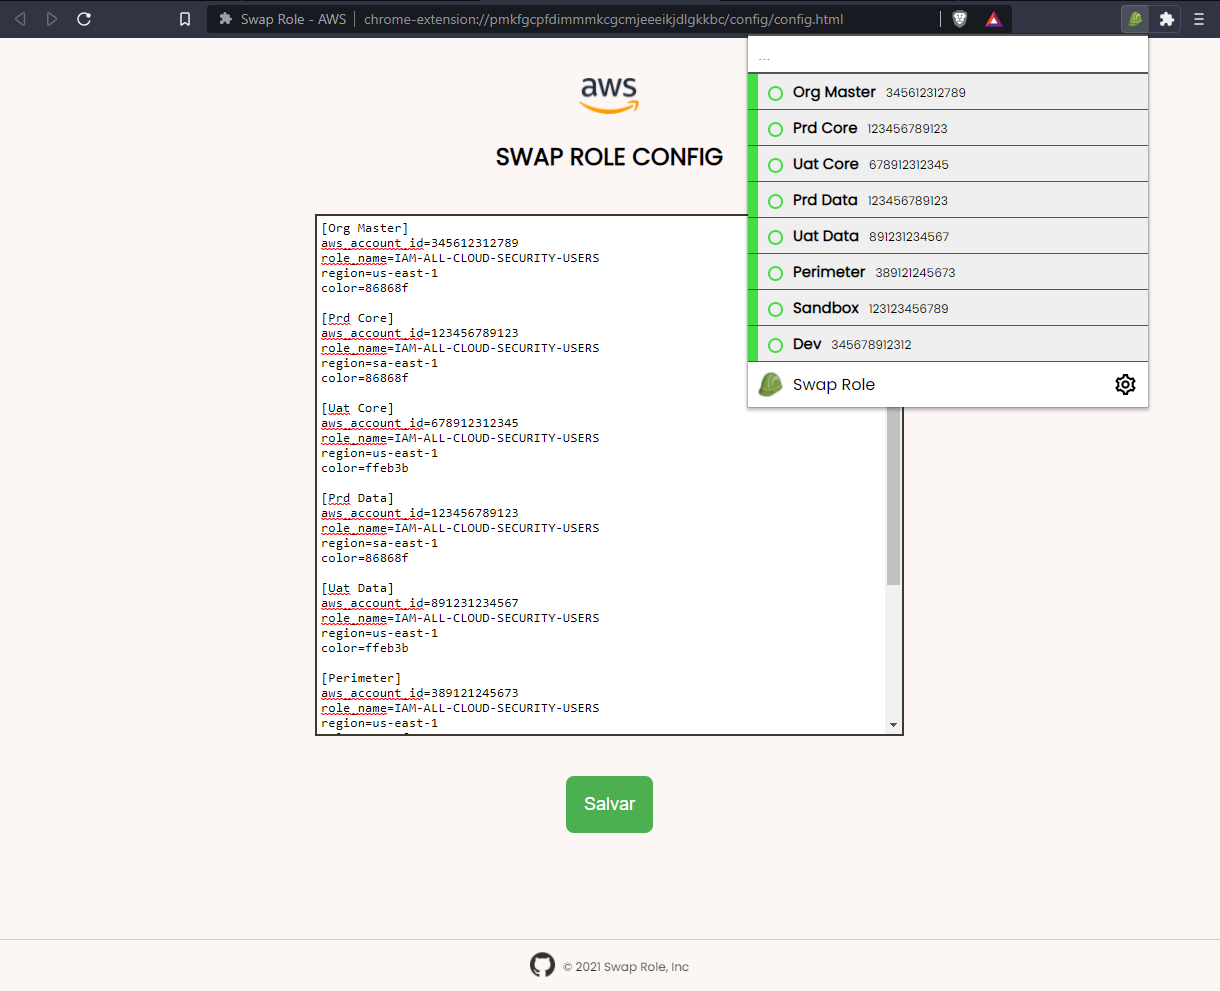
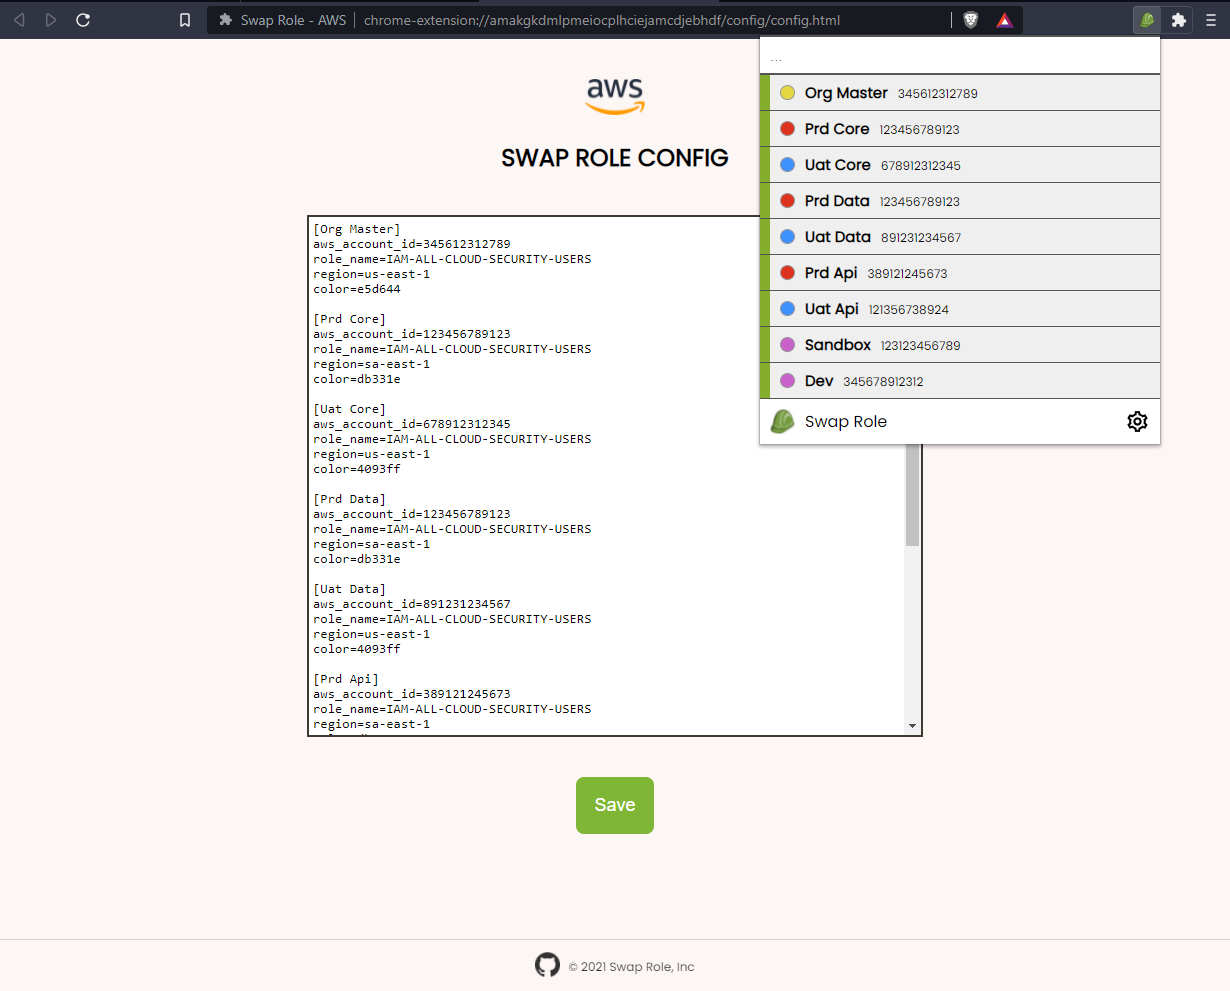
att readme images

diff --git a/README.md b/README.md
@@ -21,14 +21,14 @@ Save the role swapping information on the extensions configuration page.
 
 Example:
 ```
-[Prd]
+[Display Name]
 aws_account_id=123456789012
 role_name=ROLE-NAME
 region=us-east-1
 color=86868f
 ```
 
-In AWS website, click on the extension and a popup will appear with a list of your roles.
+In AWS website or config, click on the extension and a popup will appear with a list of your roles.
 
 <img src="./assets/config-popup.png" alt="swap role config and popup">
 
